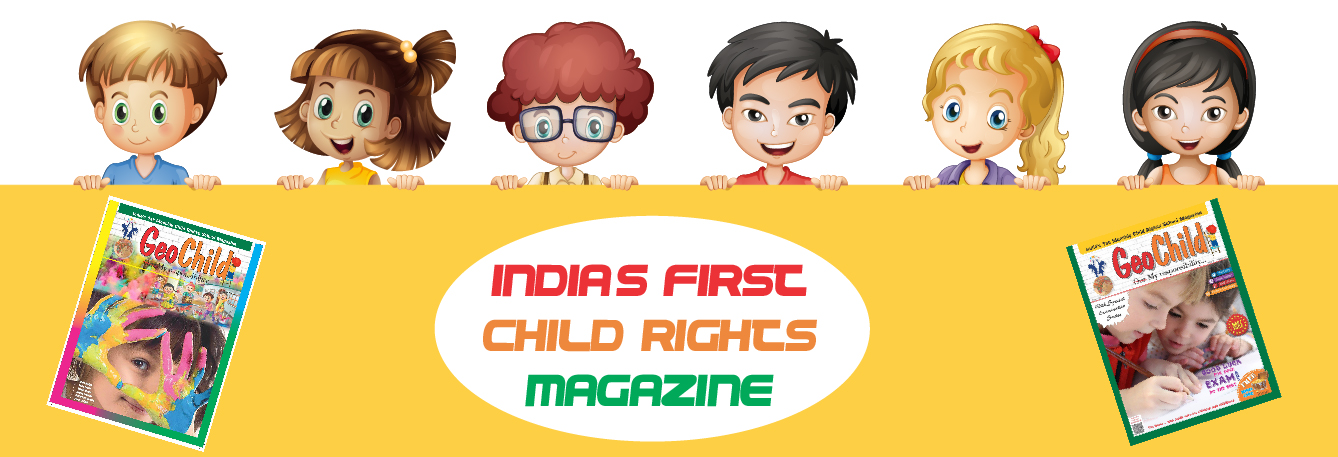
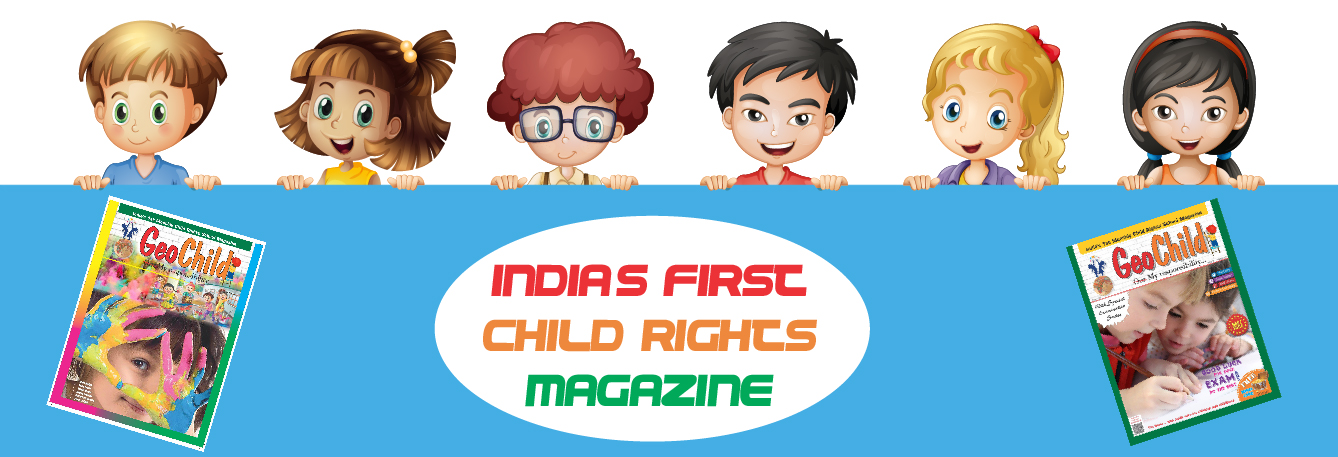
fix home

diff --git a/src/Assets/PortalTheme.css b/src/Assets/PortalTheme.css
@@ -42,7 +42,7 @@ input:-webkit-autofill:active {
 }
 
 .pageWidth {
-  width: 90%;
+  width: 95%;
   margin: auto;
 }
 
@@ -121,13 +121,20 @@ input:-webkit-autofill:active {
   background-color: #777777;
 }
 
+.mainHeader {
+  margin-top: 40px;
+  text-align: center;
+  font-family: 'Teko', sans-serif;
+  font-size: 2.7rem;
+}
+
 .imgClipPath {
   clip-path: polygon(0 0, 100% 0, 100% 280px, 0 100%);
   max-height: 300px;
 }
 
 .home-card {
-  background: #ffcc28;
+  background: #44aee4f5;
 }
 
 .card-title {
@@ -137,18 +144,28 @@ input:-webkit-autofill:active {
 }
 
 .titleStyle {
-  font-family: 'Crimson Text';
+  font-family: 'Teko', sans-serif;
   font-weight: 600;
   font-size: 1.75rem;
+  color: #ffffff;
+  display: inline-block;
+}
+
+.magMonth {
+  color: #ffffff;
+  font-size: 16px;
+  float: right;
+  font-family: 'Montserrat', sans-serif;
+  font-weight: 600;
 }
 
 .texOverflow {
   max-height: 50px;
   overflow: hidden;
-  font-family: 'Crimson Text';
-  font-style: italic;
-  font-weight: 400;
-  font-size: 1.2rem;
+  font-family: 'Montserrat', sans-serif;
+  font-weight: 600;
+  font-size: 1rem;
+  color: #ffffff;
 }
 
 .btnStyle {
@@ -160,8 +177,9 @@ input:-webkit-autofill:active {
 }
 
 .btnStyle:hover {
-  background-color: #88315e;
-  border-color: #88315e;
+  background-color: #ffffff;
+  border-color: #ffffff;
+  color: #000000;
 }
 
 /* About Page */
@@ -189,7 +207,7 @@ input:-webkit-autofill:active {
 }
 
 .card-header {
-  background: #ea5e9e;
+  background: #44aee4;
 }
 
 .card-header ul li a {
@@ -284,7 +302,7 @@ input:-webkit-autofill:active {
   width: 40px;
   line-height: 40px;
   border-radius: 0;
-  background-color: #ea5e9e;
+  background-color: #44aee4;
   margin-right: 5px;
   transition: all 0.5s ease 0s;
   position: relative;
@@ -300,6 +318,11 @@ input:-webkit-autofill:active {
   font-weight: 600;
   font-family: 'Teko', sans-serif;
   border-bottom: 1px solid #000;
+}
+
+/* ItemDetail */
+.buyBtn {
+  width: 100%;
 }
 
 @media only screen and (min-width: 320px) and (max-width: 767px) {

diff --git a/src/Views/Home/ItemDetails/ItemDetails.module.css b/src/Views/Home/ItemDetails/ItemDetails.module.css
@@ -3,14 +3,9 @@
   text-align: center;
 }
 
-.itemDetailWidth {
-  width: 95%;
-  margin: auto;
-}
-
 .itemCard {
   width: 100%;
-  background: #e6e5e5;
+  background: #44aee4;
   border: 1px solid #777;
 }
 
@@ -61,59 +56,17 @@
 }
 
 .name {
-  color: #333;
-  font-family: 'Crimson Text';
+  color: #ffffff;
+  font-family: 'Teko', sans-serif;
   font-weight: 600;
   font-size: 1.75rem;
-}
-
-.btn:link,
-.btn:visited {
-  display: block;
-  background: #e951a0;
-  text-align: center;
-  color: #fff;
-  padding: 10px;
-  margin-top: 10px;
-  transition: 0.3s;
-  font-family: 'Teko', sans-serif;
-}
-
-.btn:hover {
-  transform: translateY(-3px);
-  box-shadow: 0 10px 20px rgba(0, 0, 0, 0.2);
-  color: #ffffff;
-  background: #88315e;
-  text-decoration: none;
-}
-
-.btn:active {
-  transform: translateY(-1px);
-  box-shadow: 0 5px 10px rgba(0, 0, 0, 0.2);
-}
-
-.btnAnimated {
-  animation: moveInBottom 0.5s ease-out 0.75s;
-  animation-fill-mode: backwards;
-}
-
-@keyframes moveInBottom {
-  0% {
-    opacity: 0;
-    transform: translateY(30px);
-  }
-
-  100% {
-    opacity: 1;
-    transform: translate(0);
-  }
 }
 
 .description h1 {
   color: #777777;
   font-size: 30px;
   font-weight: 800;
-  font-family: 'Crimson Text';
+  font-family: 'Teko', sans-serif;
   font-weight: 600;
   font-size: 2rem;
 }
@@ -178,10 +131,9 @@
 
 .descrptionDetail {
   text-align: justify;
-  font-family: 'Crimson Text';
-  font-style: italic;
+  font-family: 'Montserrat', sans-serif;
   font-weight: 400;
-  font-size: 1.45rem;
+  font-size: 1rem;
 }
 
 @media only screen and (min-width: 320px) and (max-width: 767px) {

diff --git a/src/Views/Home/HomePage/Home.js b/src/Views/Home/HomePage/Home.js
@@ -39,7 +39,7 @@ class Home extends Component {
                 <img className="d-block img-fluid" src="img/slider1.jpg" alt="" />
               </div>
               <div className="carousel-item">
-                <img className="d-block img-fluid" src="img/slider1.jpg" alt="" />
+                <img className="d-block img-fluid" src="img/slider2.jpg" alt="" />
               </div>
               <div className="carousel-item">
                 <img className="d-block img-fluid" src="img/slider1.jpg" alt="" />
@@ -60,6 +60,7 @@ class Home extends Component {
           </div>
         </section>
         <div className="pageWidth">
+          <h3 className="mainHeader">Our Magazines</h3>
           <div className="row clr-margin">
             {documentStateData.reMagzineData.map((data) => {
               return (
@@ -72,6 +73,7 @@ class Home extends Component {
                     />
                     <div className="card-body home-card">
                       <h5 className="card-title titleStyle">{data.name}</h5>
+                      <p className="magMonth">{data.month}</p>
                       <p className="card-text texOverflow">{data.description}</p>
                       <Link
                         to={{ pathname: `/home/${data._id}` }}

diff --git a/src/Containers/Toolbars/Toolbar.module.css b/src/Containers/Toolbars/Toolbar.module.css
@@ -3,7 +3,7 @@
   width: 100%;
   top: 0;
   left: 0;
-  background: #e83e8cd1;
+  background: #44aee4;
   height: 56px;
   z-index: 200;
 }
@@ -72,7 +72,8 @@
 }
 
 .toolbarNavigationItems li:hover {
-  background-color: #88315e;
+  background-color: #378cb7;
+  border-radius: 5px;
 }
 
 .spacer {
@@ -85,7 +86,8 @@
   position: absolute;
   border-left: 10px solid transparent;
   border-right: 10px solid transparent;
-  border-bottom: 17px solid #88315e;
+  border-bottom: 17px solid #44aee4;
+  margin: 0 0 0 5px;
   display: none;
 }
 
@@ -96,10 +98,10 @@
 .DropContainer {
   position: absolute;
   width: 200px;
-  background-color: #88315e;
+  background-color: #44aee4;
   box-shadow: 0px 8px 16px 0px rgba(0, 0, 0, 0.2);
   z-index: 1;
-  top: 54px;
+  top: 56px;
   right: 120px;
   display: none;
 }
@@ -112,7 +114,7 @@
 }
 
 .DropContainer a:hover {
-  background: #e83e8cd1;
+  background: #378cb7;
 }
 
 .menu:hover .DropContainer {

diff --git a/src/Views/About/About.js b/src/Views/About/About.js
@@ -190,7 +190,7 @@ class About extends React.Component {
                     </div>
                   </div>
                   <div className="col-md-3 col-sm-6">
-                    <div className="our-team active">
+                    <div className="our-team">
                       <div className="pic">
                         <img
                           src="https://static.pexels.com/photos/38554/girl-people-landscape-sun-38554.jpeg"
@@ -216,7 +216,7 @@ class About extends React.Component {
                     </div>
                   </div>
                   <div className="col-md-3 col-sm-6">
-                    <div className="our-team active">
+                    <div className="our-team">
                       <div className="pic">
                         <img
                           src="https://images.pexels.com/photos/157646/title-photo-logo-shirt-157646.jpeg?w=940&h=650&auto=compress&cs=tinysrgb"

diff --git a/src/Views/Home/ItemDetails/ItemDetails.js b/src/Views/Home/ItemDetails/ItemDetails.js
@@ -25,7 +25,7 @@ class ItemDetails extends Component {
 
     return (
       <div className="fadeInEffect">
-        <div className={DetailClass.itemDetailWidth}>
+        <div className="container">
           <div className="row clr-margin">
             {documentStateData.reMagzineData.map((data) => {
               return (
@@ -65,8 +65,8 @@ class ItemDetails extends Component {
 
                       <div className={DetailClass.productInfo}>
                         <div className={DetailClass.name}>{data.name}</div>
-                        <Link to="#" className={`${DetailClass.btn} ${DetailClass.btnAnimated}`}>
-                          Buy Now
+                        <Link to="#" className="btn btn-primary btnStyle buyBtn">
+                          Read More
                         </Link>
                       </div>
                     </div>

diff --git a/src/Containers/Toolbars/Toolbar.js b/src/Containers/Toolbars/Toolbar.js
@@ -47,7 +47,7 @@ const navbar = (props) => {
             })}
             <li>
               <aside className={ToolbarClass.menu}>
-                <img src="https://img.icons8.com/officel/22/000000/add-user-male.png" alt="" />
+                <img src="img/user.svg" alt="" style={{ width: '30px' }} />
                 <div className={ToolbarClass.ArrowUp}></div>
                 {localStorage.getItem('token') ? (
                   <div className={ToolbarClass.DropContainer}>
